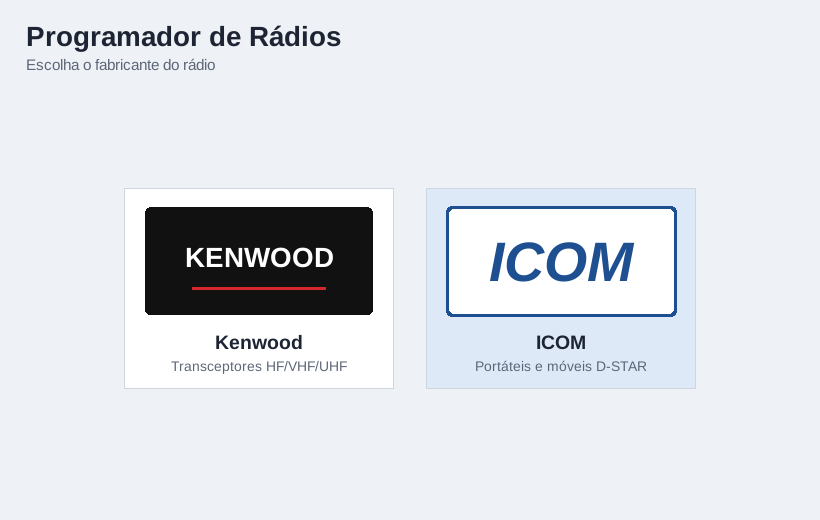
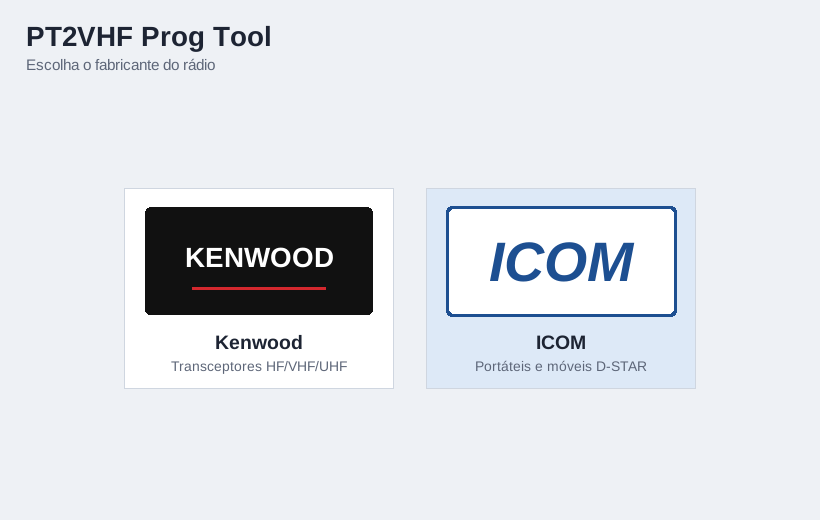
Renomeia o programa para PT2VHF Prog Tool (versão 1.2.0)
- Nome em janelas, tela inicial, instalador, atalhos e pacotes
- Instalador Windows remove a versão anterior (Programador de Rádios)
- Pacote .deb substitui o pacote programador-radios

Claude-Session: https://claude.ai/code/session_01FsbZfYK12EtgYocvBr4rQZ

Changed region(s): [[0.0305, 0.0308, 0.4268, 0.1231]]

diff --git a/packaging/site/build_site.py b/packaging/site/build_site.py
@@ -27,11 +27,11 @@ with open(os.path.join(ROOT, "launcher", "__init__.py"),
     VERSION = re.search(r'__version__ = "([^"]+)"', fh.read()).group(1)
 
 FILES = {
-    "win": f"ProgramadorRadios-{VERSION}-instalador.exe",
-    "winzip": f"ProgramadorRadios-{VERSION}-windows-portatil.zip",
-    "deb": f"programador-radios_{VERSION}_all.deb",
-    "tgz": f"programador-radios-{VERSION}-linux.tar.gz",
-    "src": f"programador-radios-{VERSION}-codigo-fonte.zip",
+    "win": f"PT2VHFProgTool-{VERSION}-instalador.exe",
+    "winzip": f"PT2VHFProgTool-{VERSION}-windows-portatil.zip",
+    "deb": f"pt2vhf-prog-tool_{VERSION}_all.deb",
+    "tgz": f"pt2vhf-prog-tool-{VERSION}-linux.tar.gz",
+    "src": f"pt2vhf-prog-tool-{VERSION}-codigo-fonte.zip",
 }
 
 
@@ -54,7 +54,7 @@ def prepare() -> dict[str, dict]:
     os.makedirs(os.path.join(SITE, "img"))
     # código-fonte (exigido pela GPL ao distribuir os executáveis)
     subprocess.run(["git", "archive", "--format=zip",
-                    f"--prefix=programador-radios-{VERSION}/",
+                    f"--prefix=pt2vhf-prog-tool-{VERSION}/",
                     "-o", os.path.join(DIST, FILES["src"]), "HEAD"],
                    cwd=ROOT, check=True)
     info = {}
@@ -81,7 +81,7 @@ PAGE = """<!doctype html>
 <head>
 <meta charset="utf-8">
 <meta name="viewport" content="width=device-width, initial-scale=1">
-<title>Programador de Rádios</title>
+<title>PT2VHF Prog Tool</title>
 <meta name="description" content="Programador gratuito para Kenwood TS-2000 (memórias, menus e display em tempo real) e Icom ID-51A Plus2 / ID-880H (memórias por clonagem).">
 <link rel="icon" href="img/icone.png">
 <style>
@@ -161,7 +161,7 @@ footer { border-top: 1px solid var(--line); margin-top: 40px; padding: 24px 0 40
   <div class="wrap">
     <img src="img/icone.png" alt="">
     <div>
-      <h1>Programador de Rádios</h1>
+      <h1>PT2VHF Prog Tool</h1>
       <p>Programação gratuita do <b>Kenwood TS-2000</b> (memórias, menus e display LCD em tempo real) e dos <b>Icom ID-51A Plus2</b> e <b>ID-880H</b> (memórias por clonagem).</p>
       <div class="meta">Versão __VERSION__ · __DATE__ · Windows e Linux · Software livre (GPLv3)</div>
       <div class="cta">
@@ -187,7 +187,7 @@ footer { border-top: 1px solid var(--line); margin-top: 40px; padding: 24px 0 40
       <div class="card" data-os="win">
         <h3>Windows portátil</h3>
         <div class="os">Windows 10 e 11, 64 bits · __WINZIP_SIZE__</div>
-        <p>Sem instalação: descompacte e abra <code>ProgramadorRadios.exe</code>. Bom para pen drive.</p>
+        <p>Sem instalação: descompacte e abra <code>PT2VHFProgTool.exe</code>. Bom para pen drive.</p>
         <a class="btn" href="__WINZIP__" download>Baixar .zip</a>
         <div class="sha">SHA-256: __WINZIP_SHA__</div>
       </div>
@@ -201,7 +201,7 @@ footer { border-top: 1px solid var(--line); margin-top: 40px; padding: 24px 0 40
       <div class="card" data-os="linux">
         <h3>Outras distribuições / macOS</h3>
         <div class="os">Python 3.10+ com Tkinter · __TGZ_SIZE__</div>
-        <p>Para Fedora, Arch, openSUSE e macOS (avançado). Descompacte e rode <code>./programador-radios.sh</code>.</p>
+        <p>Para Fedora, Arch, openSUSE e macOS (avançado). Descompacte e rode <code>./pt2vhf-prog-tool.sh</code>.</p>
         <a class="btn" href="__TGZ__" download>Baixar .tar.gz</a>
         <div class="sha">SHA-256: __TGZ_SHA__</div>
       </div>
@@ -250,7 +250,7 @@ footer { border-top: 1px solid var(--line); margin-top: 40px; padding: 24px 0 40
       <ol>
         <li>Instale com <code>sudo apt install ./__DEB__</code> (ou dê dois cliques no arquivo).</li>
         <li>Libere a porta serial para seu usuário: <code>sudo usermod -aG dialout $USER</code> e entre de novo na sessão.</li>
-        <li>Abra <b>Programador de Rádios</b> no menu de aplicativos.</li>
+        <li>Abra <b>PT2VHF Prog Tool</b> no menu de aplicativos.</li>
       </ol>
     </details>
     <details>
@@ -258,7 +258,7 @@ footer { border-top: 1px solid var(--line); margin-top: 40px; padding: 24px 0 40
       <ol>
         <li>Instale o Python 3.10+ com Tkinter (Fedora: <code>python3-tkinter</code>; Arch: <code>tk</code>; macOS: Python de python.org).</li>
         <li>Descompacte: <code>tar xzf __TGZ__</code></li>
-        <li>Rode: <code>./programador-radios-__VERSION__/programador-radios.sh</code> (instala o pyserial se faltar).</li>
+        <li>Rode: <code>./pt2vhf-prog-tool-__VERSION__/pt2vhf-prog-tool.sh</code> (instala o pyserial se faltar).</li>
       </ol>
     </details>
     <details>
@@ -287,7 +287,7 @@ footer { border-top: 1px solid var(--line); margin-top: 40px; padding: 24px 0 40
 </main>
 
 <footer>
-  <div class="wrap">Programador de Rádios __VERSION__ · Kenwood e Icom são marcas de seus respectivos donos; este programa não é afiliado a elas.</div>
+  <div class="wrap">PT2VHF Prog Tool __VERSION__ · Kenwood e Icom são marcas de seus respectivos donos; este programa não é afiliado a elas.</div>
 </footer>
 
 <script>

diff --git a/launcher/app.py b/launcher/app.py
@@ -50,8 +50,8 @@ class Card(tk.Frame):
 class Launcher(tk.Tk):
     def __init__(self):
         # className define o WM_CLASS no Linux (casa com o .desktop)
-        super().__init__(className="programador-radios")
-        self.title("Programador de Rádios")
+        super().__init__(className="pt2vhf-prog-tool")
+        self.title("PT2VHF Prog Tool")
         self.geometry("820x520")
         self.minsize(640, 440)
         self.configure(bg=BG)
@@ -98,7 +98,7 @@ class Launcher(tk.Tk):
         return body
 
     def show_home(self) -> None:
-        body = self._new_page("Programador de Rádios",
+        body = self._new_page("PT2VHF Prog Tool",
                               "Escolha o fabricante do rádio")
         Card(body, "kenwood", "Kenwood", "Transceptores HF/VHF/UHF",
              self.show_kenwood).grid(row=0, column=0, padx=16, pady=16)

diff --git a/icomprog/gui.py b/icomprog/gui.py
@@ -371,7 +371,7 @@ class IcomEditor(tk.Toplevel):
     def _title(self) -> None:
         name = os.path.basename(self.path) if self.path else "sem título"
         self.title(f"{'*' if self.modified else ''}{name} — "
-                   f"Editor Icom {self.model.name}")
+                   f"PT2VHF Prog Tool — Icom {self.model.name}")
 
     def _set_modified(self) -> None:
         self.modified = True

diff --git a/ts2000prog/gui.py b/ts2000prog/gui.py
@@ -21,7 +21,7 @@ from .menus import MenuDef, load_menu_defs, save_menu_defs
 from .radio import (BAUD_RATES, TS2000, Cancelled, RadioError, list_ports)
 from .status import RadioStatus
 
-APP_TITLE = "Programador Kenwood TS-2000"
+APP_TITLE = "PT2VHF Prog Tool — Kenwood TS-2000"
 FILE_TYPES = [("Projeto TS-2000", "*.ts2k"), ("Todos", "*.*")]
 CSV_TYPES = [("CSV", "*.csv"), ("Todos", "*.*")]
 

diff --git a/main.py b/main.py
@@ -1,5 +1,5 @@
 #!/usr/bin/env python3
-"""Inicia o Programador de Rádios (tela inicial com Kenwood e ICOM)."""
+"""Inicia o PT2VHF Prog Tool (tela inicial com Kenwood e ICOM)."""
 
 from launcher.app import main
 

diff --git a/launcher/__init__.py b/launcher/__init__.py
@@ -1,3 +1,3 @@
-"""Tela inicial do Programador de Rádios."""
+"""Tela inicial do PT2VHF Prog Tool."""
 
-__version__ = "1.1.0"
+__version__ = "1.2.0"

diff --git a/README.md b/README.md
@@ -1,4 +1,4 @@
-# Programador de Rádios — Kenwood TS-2000, Icom ID-51A Plus2 e ID-880H
+# PT2VHF Prog Tool — Kenwood TS-2000, Icom ID-51A Plus2 e ID-880H
 
 Aplicativo desktop (Python + Tkinter) para programar rádios pela porta
 serial. A tela inicial mostra os fabricantes. Clicando em **Kenwood**
@@ -101,7 +101,7 @@ TS-2000 simulado tem frequência, S-meter e TX variando para o display.
 
 ## Instalador para Windows
 
-O arquivo `ProgramadorRadios-<versão>-instalador.exe` instala o programa no
+O arquivo `PT2VHFProgTool-<versão>-instalador.exe` instala o programa no
 Windows 10/11 de 64 bits. Ele cria atalhos no Menu Iniciar e, se você
 quiser, no desktop. A desinstalação fica em **Configurações › Aplicativos**
 e também no Menu Iniciar. Não é preciso instalar Python.
